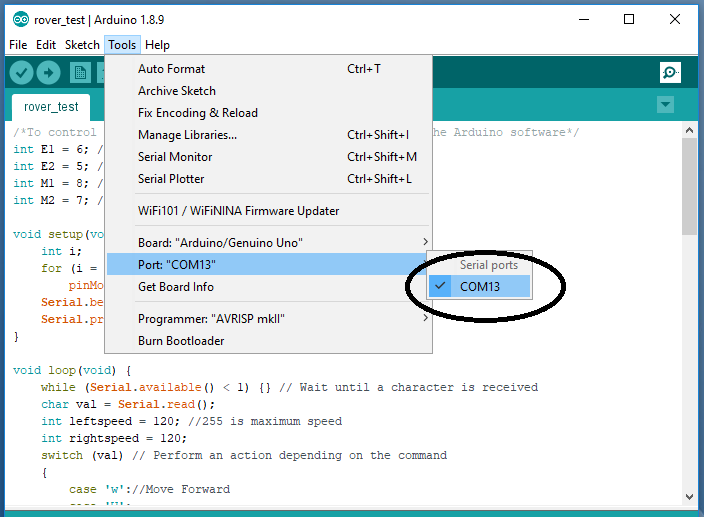
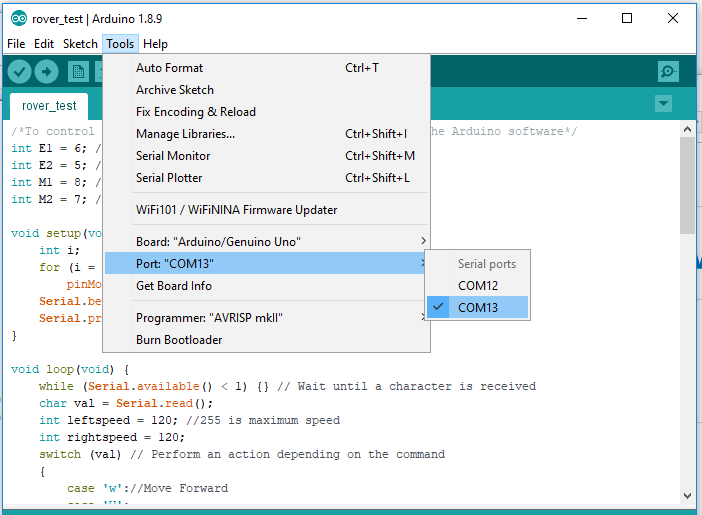
Bluetooth update

diff --git a/Egna exempel/Rover/readme.md b/Egna exempel/Rover/readme.md
@@ -54,17 +54,25 @@ The Rover must be battery powered to run. The switch is ON when toggled towards 
 
 There is a [bluetooth module](https://www.robotshop.com/en/dfrobot-serial-bluetooth-module.html#Useful-Links) included in the kit.
 
-To use it, turn the POWER OFF by pushing the board switch outwards, unplug the USB cable and plug in the Bluetooth module to the board.
+To use it, first turn the POWER OFF by pushing the board switch outwards, unplug the USB cable and plug in the Bluetooth module to the board.
 
 #### Android App
 
+The Rover can be controlled via an Android app
+
 * [Android app control](https://www.robotshop.com/community/blog/show/dfrobotshop-rover-tutorial-control-with-android-app-bluetooth)
 
-#### iPhone control
+#### iPhone control - Not possible?
 
-* Iphone does not have a dedicated app, but we should be able to use something like this [Bluetooth terminal app](https://apps.apple.com/us/app/bluetooth-terminal/id1058693037) and use the same commands as when steering it via USB, see above.
+[The DFBluetoothV3 module specifications](https://www.dfrobot.com/product-360.html) state that it uses:
 
-* We can also try the [Blynk](https://blynk.io/) App to see if they give a smoother experience on iPhone.
+Bluetooth protocol: [Bluetooth Specification v2.0 + EDR](https://en.wikipedia.org/wiki/Bluetooth#Bluetooth_2.0_+_EDR)
+
+Support profiles: [Bluetooth serial port](https://en.wikipedia.org/wiki/List_of_Bluetooth_profiles#Serial_Port_Profile_(SPP))
+
+[Using Bluetooth as a serial port is not supported in iOS](https://support.apple.com/en-us/HT204387)
+
+Conclusion: This module will never work with regular iPhones due to iOS limitations.
 
 #### PC bluetooth control
 
@@ -72,12 +80,13 @@ If your PC has Bluetooth support you can connect to the Bluetooth module in Wind
 
 *How to connect to the Bluetooth board in windows*
 
-* IMPORTANT! Close all Serial monitor windows
+* IMPORTANT! First close all Arduino Serial monitor windows (the ones there you type the steering commands in.)
 
 * ![](img/bluetooth1.PNG)
 * ![](img/bluetooth2.PNG)
 * ![](img/bluetooth3.PNG)
 * ![](img/bluetooth4.PNG)
+* If you can't find it. Check that the "AT Mode" switch on the Bluetooth module is OFF and that the Rover battery pack is turned on.
 * ![](img/bluetooth5.PNG)
 * ![](img/bluetooth6.PNG)
 
@@ -87,12 +96,23 @@ If your PC has Bluetooth support you can connect to the Bluetooth module in Wind
 
 *You should be able to select it as a port as if you had a USB cable attached*
 
+**NOTE:** *If you have two COM Port choices, sadly only one will work, and it seems to be random which one it is. The "wrong" one will cause the Serial monitor window to freeze when you try to send commands through it. If that happens, press Ctrl+Shift+ESC and force a shut down of the frozen program as the picture below. Then start the Arduino program again and try the other COM port.
 
+* ![](img/bluetooth8.PNG)
 
+*DO THIS IF THE PROGRAM FREEZES!*
 
-(Alternative, use termial through Termite (free software)) 
+* ![](img/bluetooth9.PNG)
 
-### Wifi control using esp8266 onboard web server
+**NOTE:** *The BAUD RATE is different when using bluetooth. Make sure to correct it. [Baud = symbols per second](https://en.wikipedia.org/wiki/Baud)
+
+* Now you can steer the Rover via your PC!
+
+**COMMON PROBLEMS**
+
+* If you can't choose any COM port in the Arduino program even if windows says you are connected, you need to restart the PC and try again. 
+
+# Wifi control using esp8266 onboard web server - FUTURE DEVELOPMENTS
 
 We can build a web interface to control the [DF RobotShop rover](https://www.robotshop.com/en/dfrobotshop-rover-tracked-robot-basic-kit.html).
 
